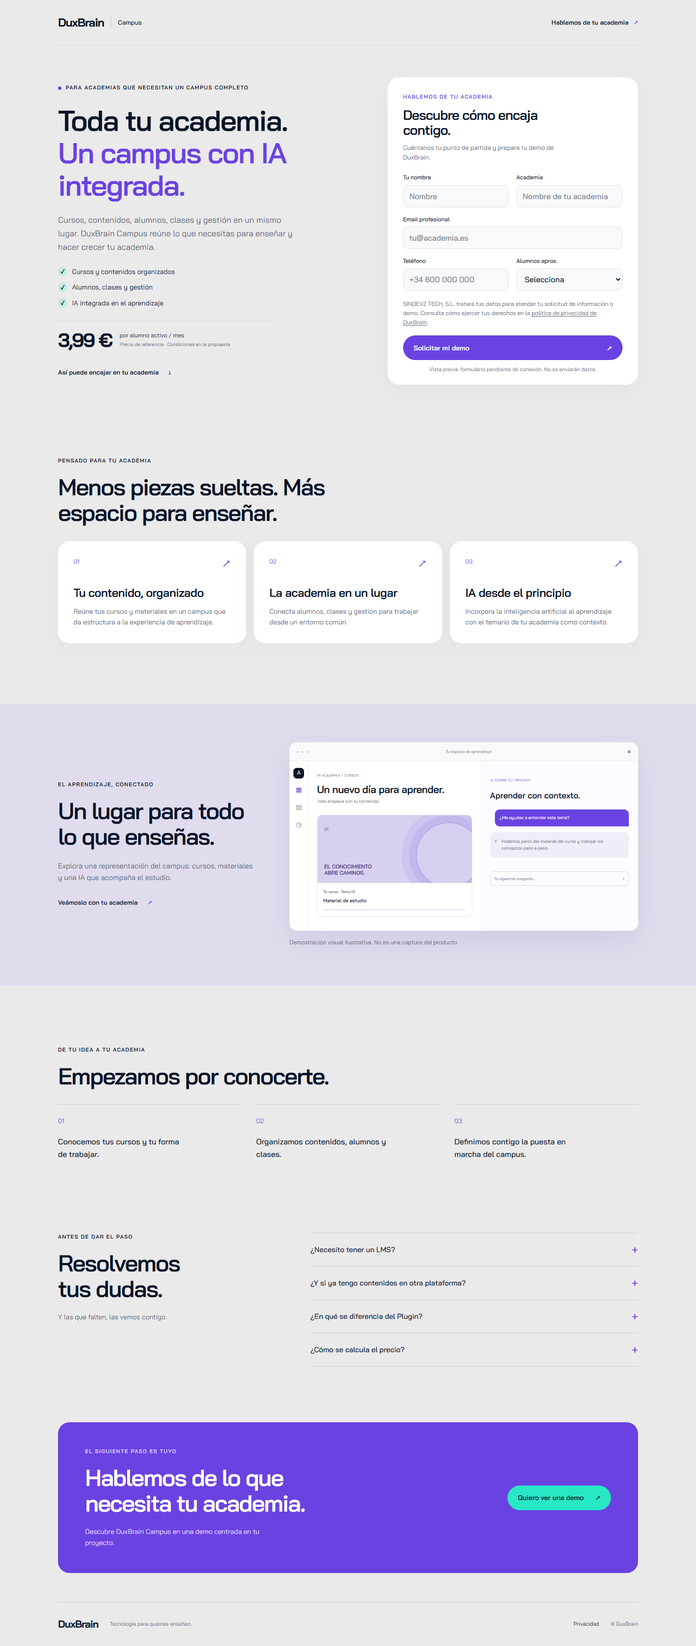
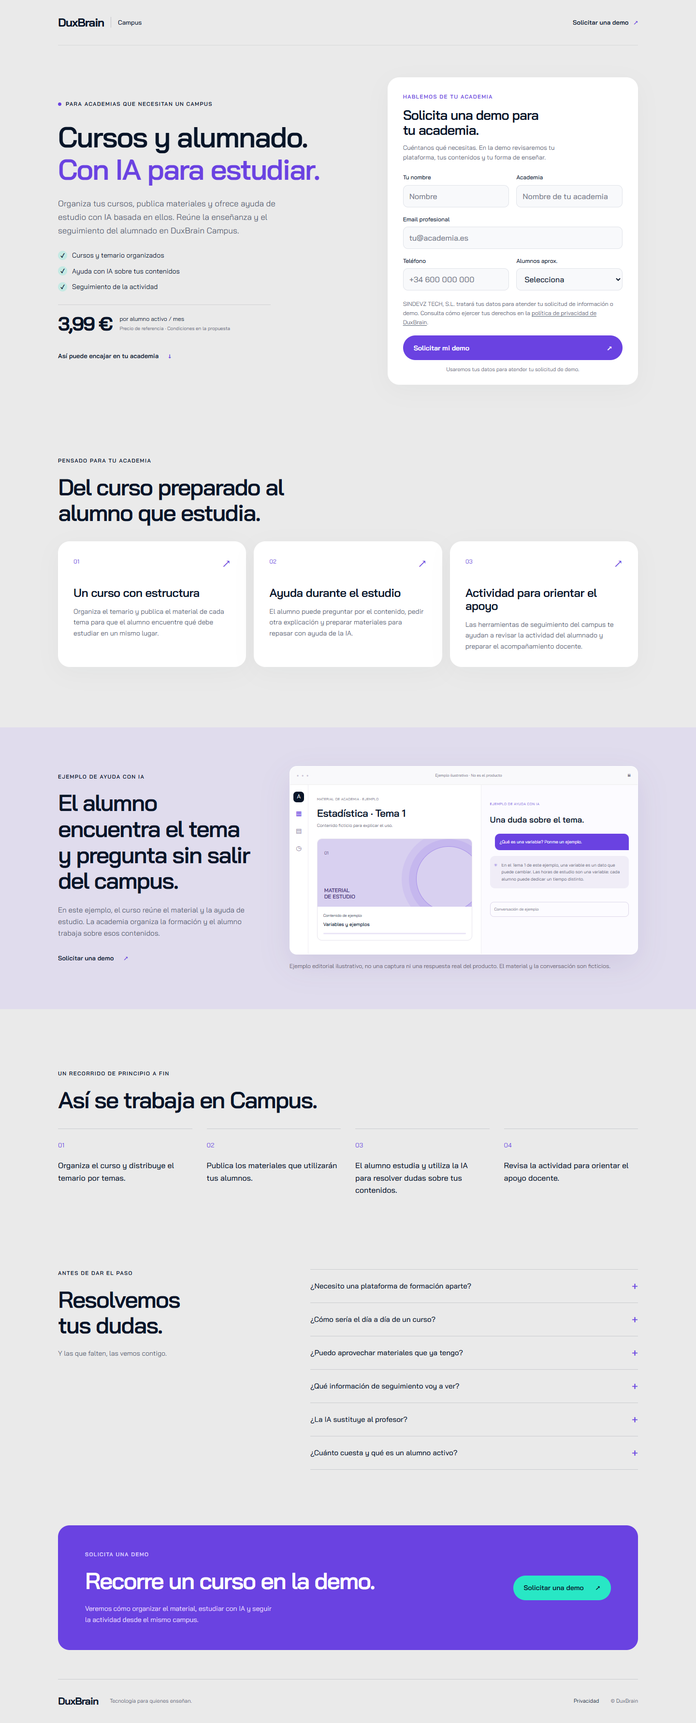
feat: clarify landing copy for academy demo campaigns

diff --git a/src/content/landings.ts b/src/content/landings.ts
@@ -3,72 +3,101 @@ export type LandingContent = {
   id: LandingId; name: string; eyebrow: string; title: string; accent: string;
   description: string; price: string; points: string[];
   benefitsTitle: string; benefits: { title: string; text: string }[];
-  demoTitle: string; demoText: string; steps: string[];
+  demoTitle: string; demoText: string;
+  demo: { courseTitle: string; material: string; panelLabel: string; panelTitle: string; question?: string; answer?: string; reviewTopics?: string[]; caption: string };
+  stepsEyebrow: string; stepsTitle: string; steps: string[];
+  finalTitle: string; finalText: string;
   faqs: { question: string; answer: string }[];
   meta: { title: string; description: string };
 };
 
-const priceFaq = (price: string) => ({ question: "¿Cómo se calcula el precio?", answer: `El precio de referencia es ${price} por alumno activo al mes. En la demo revisaremos el tamaño de tu academia, qué se considera un alumno activo y las condiciones aplicables antes de preparar una propuesta.` });
+const priceFaq = (price: string) => ({ question: "¿Cuánto cuesta y qué es un alumno activo?", answer: `El precio de referencia es ${price} por alumno activo al mes. Antes de contratar, confirmaremos contigo cómo se cuenta un alumno activo, los impuestos y las condiciones de la propuesta. La demo sirve para revisar el alcance que necesita tu academia.` });
+const aiFaq = { question: "¿La IA sustituye al profesor?", answer: "La IA es una ayuda de estudio basada en los contenidos de tu academia: puede ofrecer otra explicación o ayudar a preparar un repaso. Puede equivocarse, por lo que el material del curso y el criterio del docente siguen siendo la referencia." };
+const studyDemo = {
+  courseTitle: "Estadística · Tema 1", material: "Variables y ejemplos",
+  panelLabel: "EJEMPLO DE AYUDA CON IA", panelTitle: "Una duda sobre el tema.",
+  question: "¿Qué es una variable? Ponme un ejemplo.",
+  answer: "En el Tema 1 de este ejemplo, una variable es un dato que puede cambiar. Las horas de estudio son una variable: cada alumno puede dedicar un tiempo distinto.",
+  caption: "Ejemplo editorial ilustrativo, no una captura ni una respuesta real del producto. El material y la conversación son ficticios.",
+};
+
 export const landings: Record<LandingId, LandingContent> = {
   plugin: {
-    id: "plugin", name: "Plugin", eyebrow: "PARA ACADEMIAS QUE YA TIENEN LMS",
-    title: "Tu plataforma de siempre.", accent: "Ahora, con IA sobre tu temario.",
-    description: "Añade DuxBrain a tu LMS y acerca la inteligencia artificial a tus alumnos, dentro de su entorno de estudio. Sin migrar tu academia.",
-    price: "0,99 €", points: ["Tu contenido como punto de partida", "Integrado en tu plataforma", "Sin cambiar de campus"],
-    benefitsTitle: "Tu academia ya funciona. Dale el siguiente impulso.",
+    id: "plugin", name: "Plugin", eyebrow: "PARA ACADEMIAS QUE YA TIENEN PLATAFORMA",
+    title: "IA sobre tu temario.", accent: "En tu campus actual.",
+    description: "Añade ayuda de estudio basada en tus contenidos al campus que ya usas. Tus alumnos pueden preguntar y pedir otra explicación del tema. Revisamos antes la integración.",
+    price: "0,99 €", points: ["Dudas sobre tus materiales", "Explicaciones y ayuda para repasar", "Sin cambiar de campus"],
+    benefitsTitle: "Ayuda cuando un alumno se atasca.",
     benefits: [
-      { title: "IA con tu contexto", text: "Acerca al alumno una IA centrada en el temario de tu academia y en lo que está estudiando." },
-      { title: "Dentro de su LMS", text: "La experiencia de aprendizaje continúa en la plataforma que tu equipo y tus alumnos ya conocen." },
-      { title: "Sin empezar de cero", text: "Conserva tu campus. Revisamos contigo la integración para incorporar DuxBrain a tu entorno actual." },
+      { title: "Resolver una duda", text: "Mientras estudia un tema, el alumno puede preguntar por un concepto y recibir una explicación basada en el contenido de la academia." },
+      { title: "Entenderlo de otra forma", text: "Si una explicación no le resulta clara, puede pedir una alternativa o un ejemplo para trabajar la misma idea." },
+      { title: "Preparar el repaso", text: "La IA puede ayudar a preparar materiales de estudio a partir del temario. El alumno mantiene el contenido del curso como referencia." },
     ],
-    demoTitle: "El temario en el centro de la conversación.", demoText: "Una forma de visualizar cómo conviven tus contenidos y la IA en el mismo entorno de estudio.",
-    steps: ["Revisamos tu LMS y sus posibilidades de integración.", "Definimos el temario que utilizará la IA.", "Preparamos contigo la incorporación a tu academia."],
+    demoTitle: "Del material de tu academia a una explicación concreta.",
+    demoText: "Imagina a un alumno leyendo el tema de variables. Pregunta por el concepto y recibe una explicación que parte de ese material, dentro de su entorno de estudio.",
+    demo: studyDemo,
+    stepsEyebrow: "ANTES DE INTEGRAR TU PLATAFORMA", stepsTitle: "Comprobamos cómo encaja en tu campus.",
+    steps: ["Revisamos tu plataforma, su versión, cómo acceden los alumnos y qué opciones de integración ofrece.", "Comprobamos el formato de tus materiales y qué contenido quieres utilizar con la IA.", "Acordamos el alcance técnico y la puesta en marcha antes de contratar."],
+    finalTitle: "Veamos la IA en tu campus.", finalText: "Cuéntanos qué plataforma utilizas y qué temario quieres incorporar. Revisaremos tu caso en la demo.",
     faqs: [
-      { question: "¿Tengo que cambiar de plataforma?", answer: "No. DuxBrain Plugin está pensado para academias que quieren mantener su LMS e incorporar IA sobre su temario." },
-      { question: "¿Es compatible con mi LMS?", answer: "Revisaremos tu plataforma y los requisitos técnicos en la demo. La compatibilidad y el alcance de la integración se confirman antes de contratar." },
-      { question: "¿Qué contenidos utilizará la IA?", answer: "El temario que tu academia decida incorporar. Revisaremos su formato y organización contigo para definir la configuración." }, priceFaq("0,99 €"),
+      { question: "¿Tengo que trasladar mis cursos a otro campus?", answer: "Plugin está pensado para añadir IA a tu plataforma actual, conservando tu campus y tu temario. Primero hay que confirmar que la integración es viable en tu entorno; no prometemos compatibilidad con cualquier plataforma." },
+      { question: "¿Qué hay que comprobar si uso Moodle u otro LMS?", answer: "Moodle es una referencia conocida, pero el nombre de la plataforma no basta para confirmar compatibilidad. Revisaremos versión, configuración, forma de acceso de los alumnos, permisos técnicos y disponibilidad de los contenidos. La propuesta concretará qué se integra y cómo." },
+      { question: "¿La ayuda se basa en mi temario o en contenido genérico?", answer: "El punto de partida son los materiales de tu academia que se incorporen a DuxBrain. Antes de integrar, revisaremos sus formatos y organización. En la demo puedes plantear una duda de un tema para ver el tipo de ayuda de estudio." },
+      aiFaq, priceFaq("0,99 €"),
     ],
-    meta: { title: "IA para tu LMS, sin migraciones | DuxBrain Plugin", description: "Integra IA sobre tu temario en el LMS de tu academia. DuxBrain Plugin: precio de referencia de 0,99 € por alumno activo al mes. Solicita una demo." },
+    meta: { title: "IA sobre tu temario en tu campus | DuxBrain Plugin", description: "Ayuda a tus alumnos a resolver dudas con IA basada en tus contenidos, sin cambiar de campus. Plugin: 0,99 € por alumno activo al mes. Solicita una demo." },
   },
   campus: {
-    id: "campus", name: "Campus", eyebrow: "PARA ACADEMIAS QUE NECESITAN UN CAMPUS COMPLETO",
-    title: "Toda tu academia.", accent: "Un campus con IA integrada.",
-    description: "Cursos, contenidos, alumnos, clases y gestión en un mismo lugar. DuxBrain Campus reúne lo que necesitas para enseñar y hacer crecer tu academia.",
-    price: "3,99 €", points: ["Cursos y contenidos organizados", "Alumnos, clases y gestión", "IA integrada en el aprendizaje"],
-    benefitsTitle: "Menos piezas sueltas. Más espacio para enseñar.",
+    id: "campus", name: "Campus", eyebrow: "PARA ACADEMIAS QUE NECESITAN UN CAMPUS",
+    title: "Cursos y alumnado.", accent: "Con IA para estudiar.",
+    description: "Organiza tus cursos, publica materiales y ofrece ayuda de estudio con IA basada en ellos. Reúne la enseñanza y el seguimiento del alumnado en DuxBrain Campus.",
+    price: "3,99 €", points: ["Cursos y temario organizados", "Ayuda con IA sobre tus contenidos", "Seguimiento de la actividad"],
+    benefitsTitle: "Del curso preparado al alumno que estudia.",
     benefits: [
-      { title: "Tu contenido, organizado", text: "Reúne tus cursos y materiales en un campus que da estructura a la experiencia de aprendizaje." },
-      { title: "La academia en un lugar", text: "Conecta alumnos, clases y gestión para trabajar desde un entorno común." },
-      { title: "IA desde el principio", text: "Incorpora la inteligencia artificial al aprendizaje con el temario de tu academia como contexto." },
+      { title: "Un curso con estructura", text: "Organiza el temario y publica el material de cada tema para que el alumno encuentre qué debe estudiar en un mismo lugar." },
+      { title: "Ayuda durante el estudio", text: "El alumno puede preguntar por el contenido, pedir otra explicación y preparar materiales para repasar con ayuda de la IA." },
+      { title: "Actividad para orientar el apoyo", text: "Las herramientas de seguimiento del campus te ayudan a revisar la actividad del alumnado y preparar el acompañamiento docente." },
     ],
-    demoTitle: "Un lugar para todo lo que enseñas.", demoText: "Explora una representación del campus: cursos, materiales y una IA que acompaña el estudio.",
-    steps: ["Conocemos tus cursos y tu forma de trabajar.", "Organizamos contenidos, alumnos y clases.", "Definimos contigo la puesta en marcha del campus."],
+    demoTitle: "El alumno encuentra el tema y pregunta sin salir del campus.",
+    demoText: "En este ejemplo, el curso reúne el material y la ayuda de estudio. La academia organiza la formación y el alumno trabaja sobre esos contenidos.",
+    demo: studyDemo,
+    stepsEyebrow: "UN RECORRIDO DE PRINCIPIO A FIN", stepsTitle: "Así se trabaja en Campus.",
+    steps: ["Organiza el curso y distribuye el temario por temas.", "Publica los materiales que utilizarán tus alumnos.", "El alumno estudia y utiliza la IA para resolver dudas sobre tus contenidos.", "Revisa la actividad para orientar el apoyo docente."],
+    finalTitle: "Recorre un curso en la demo.", finalText: "Veremos cómo organizar el material, estudiar con IA y seguir la actividad desde el mismo campus.",
     faqs: [
-      { question: "¿Necesito tener un LMS?", answer: "No. Campus es la solución completa para academias que necesitan su propio entorno para cursos, contenidos, alumnos, clases, gestión e IA." },
-      { question: "¿Y si ya tengo contenidos en otra plataforma?", answer: "Revisaremos los formatos y el volumen de tus materiales para definir el proceso de incorporación y su alcance." },
-      { question: "¿En qué se diferencia del Plugin?", answer: "Plugin añade IA a un LMS que ya tienes. Campus reúne el entorno de formación completo y la IA integrada." }, priceFaq("3,99 €"),
+      { question: "¿Necesito una plataforma de formación aparte?", answer: "Campus reúne cursos, contenidos, alumnado, herramientas de seguimiento y ayuda con IA. Si ya tienes una plataforma que quieres conservar y solo buscas añadir IA, revisa la opción Plugin." },
+      { question: "¿Cómo sería el día a día de un curso?", answer: "La academia organiza el curso y publica el material. El alumno accede al tema y puede apoyarse en la IA al estudiar. Después, el equipo docente revisa la actividad mediante las herramientas de seguimiento del campus." },
+      { question: "¿Puedo aprovechar materiales que ya tengo?", answer: "Revisaremos los formatos, la organización y el volumen del contenido para definir su incorporación. No damos por incluida una migración automática ni un plazo de puesta en marcha sin estudiar tu caso." },
+      { question: "¿Qué información de seguimiento voy a ver?", answer: "El campus dispone de herramientas de seguimiento de actividad. En la demo revisaremos las vistas disponibles y qué información aporta cada una para tu forma de enseñar; no prometemos métricas o informes concretos sin confirmarlos." },
+      aiFaq, priceFaq("3,99 €"),
     ],
-    meta: { title: "El campus completo para tu academia | DuxBrain Campus", description: "Cursos, contenidos, alumnos, clases, gestión e IA integrada. Descubre DuxBrain Campus desde un precio de referencia de 3,99 € por alumno activo al mes." },
+    meta: { title: "Cursos, alumnos e IA en un campus | DuxBrain Campus", description: "Organiza cursos, publica materiales, ofrece ayuda con IA y sigue la actividad del alumnado. Campus: 3,99 € por alumno activo al mes. Solicita una demo." },
   },
   "campus-secure": {
-    id: "campus-secure", name: "Campus · Seguridad", eyebrow: "DUXBRAIN CAMPUS · FOCO EN SEGURIDAD",
-    title: "Tu contenido tiene valor.", accent: "Ten más control sobre su acceso.",
-    description: "Tu campus completo, con el foco en controlar accesos, sesiones y reproducción de contenidos. Enseña con IA integrada y define cómo se utiliza tu formación.",
-    price: "3,99 €", points: ["Control de accesos", "Gestión de sesiones", "Control de reproducción"],
-    benefitsTitle: "Control donde importa. En tu día a día.",
+    id: "campus-secure", name: "Campus · Seguridad", eyebrow: "DUXBRAIN CAMPUS · ACCESOS Y CONTENIDOS",
+    title: "¿Se comparten accesos a tu curso?", accent: "Revisa qué puedes controlar.",
+    description: "Si tu formación de pago circula fuera de la academia, empieza por revisar los accesos y el uso del contenido. En la demo de Campus concretamos las opciones y sus límites.",
+    price: "3,99 €", points: ["Revisión de tu caso de acceso", "Alcance técnico antes de contratar", "El mismo Campus con IA"],
+    benefitsTitle: "Parte del problema que vive tu academia.",
     benefits: [
-      { title: "Accesos bajo control", text: "Define quién accede a tu formación y revisa con nosotros la configuración que necesita tu academia." },
-      { title: "Atención a las sesiones", text: "Pon el foco en el uso de las sesiones y en las condiciones de acceso de tus alumnos." },
-      { title: "Reproducción de contenidos", text: "Revisa las opciones de control de reproducción y su alcance antes de poner tu campus en marcha." },
+      { title: "Accesos compartidos", text: "Cuéntanos quién debería acceder a cada curso y cómo se comparte hoy el acceso. Es el punto de partida para revisar qué opciones encajan en tu caso." },
+      { title: "Material fuera de la academia", text: "Identifica qué contenido de pago te preocupa y cómo se distribuye. En la demo distinguiremos lo que se puede controlar de lo que requiere otras medidas." },
+      { title: "La enseñanza sigue en Campus", text: "Esta página presenta el mismo campus de cursos, contenidos, alumnado, seguimiento e IA. El enfoque de seguridad no añade otra tarifa." },
     ],
-    demoTitle: "La formación y su acceso, en el mismo entorno.", demoText: "Una representación para explicar los puntos de control que revisaremos en la demo de Campus.",
-    steps: ["Entendemos cómo se accede hoy a tus contenidos.", "Revisamos los controles y su alcance técnico.", "Definimos la configuración de tu Campus."],
+    demoTitle: "Tres preguntas para revisar tu caso.",
+    demoText: "La demo debe servir para contrastar tus necesidades con las opciones reales del campus, antes de decidir. Este esquema es un guion de conversación, no un panel de controles incluidos.",
+    demo: { courseTitle: "Tu formación de pago", material: "Contenido que quieres revisar", panelLabel: "GUION DE LA DEMO", panelTitle: "Necesidades por revisar", reviewTopics: ["¿Quién debe acceder?", "¿Qué material te preocupa?", "¿Qué necesitas limitar?"], caption: "Esquema ilustrativo de la revisión, no una captura del producto. No representa controles incluidos ni garantías de protección." },
+    stepsEyebrow: "ANTES DE DECIDIR", stepsTitle: "Concreta el alcance antes de contratar.",
+    steps: ["Describe cómo se comparten los accesos o se distribuye tu contenido hoy.", "Contrastamos tus necesidades con las opciones disponibles y sus límites técnicos.", "La propuesta deja por escrito qué alcance se confirma para tu Campus."],
+    finalTitle: "Trae tu caso de acceso a la demo.", finalText: "Revisa qué puede aportar Campus a tu academia y qué necesidades requieren una confirmación técnica.",
     faqs: [
-      { question: "¿Campus Secure es una tarifa diferente?", answer: "No. Es DuxBrain Campus presentado desde el enfoque de seguridad. El precio de referencia sigue siendo 3,99 € por alumno activo al mes." },
-      { question: "¿Se puede garantizar que nadie grabe mis contenidos?", answer: "No. Ningún entorno puede garantizar que sea imposible grabar o copiar contenido. Los controles ayudan a gestionar el acceso y el uso; su alcance y limitaciones se revisan en la demo." },
-      { question: "¿Qué controles incluye para mi academia?", answer: "Revisaremos accesos, sesiones y reproducción contigo. La configuración concreta, los requisitos técnicos y el alcance se confirman en la propuesta." },
-      { question: "¿También incluye el campus y la IA?", answer: "Sí. Es el mismo Campus: cursos, contenidos, alumnos, clases, gestión e IA integrada, con el foco de esta presentación en la seguridad." }, priceFaq("3,99 €"),
+      { question: "¿Campus Secure es otro producto o una tarifa adicional?", answer: "No. Es el mismo DuxBrain Campus presentado desde el problema de los accesos compartidos y la distribución de contenidos. El precio de referencia sigue siendo 3,99 € por alumno activo al mes." },
+      { question: "¿Qué controles están incluidos por 3,99 €?", answer: "El precio corresponde a Campus. El alcance concreto de las restricciones de acceso o uso debe verificarse en la demo y quedar reflejado en la propuesta. Esta página no da por incluidos controles de sesiones o reproducción que no se hayan confirmado para esa oferta." },
+      { question: "¿Evita que un alumno comparta su cuenta?", answer: "No prometemos impedir todos los usos compartidos. Revisaremos cómo acceden tus alumnos y qué opciones reales pueden atender tu caso, con sus límites y requisitos, antes de contratar." },
+      { question: "¿Se puede impedir cualquier grabación o copia?", answer: "No. No se garantiza que sea imposible grabar o copiar un contenido. La demo debe ayudarte a entender el alcance real de las opciones disponibles, sin confundir control de acceso con protección absoluta." },
+      { question: "¿Sigo teniendo cursos e IA educativa?", answer: "Sí. Sigue siendo Campus: cursos, contenidos, alumnado, herramientas de seguimiento y ayuda de estudio con IA basada en los materiales de la academia." },
+      priceFaq("3,99 €"),
     ],
-    meta: { title: "Control de accesos y contenidos | DuxBrain Campus", description: "Descubre DuxBrain Campus con foco en accesos, sesiones y reproducción de contenidos. Mismo Campus, precio de referencia de 3,99 € por alumno activo al mes." },
+    meta: { title: "Accesos compartidos y contenido de pago | DuxBrain Campus", description: "¿Se comparten accesos o materiales de tu academia? Revisa las opciones y límites de Campus en una demo. Mismo Campus: 3,99 € por alumno activo al mes." },
   },
 };

diff --git a/src/components/landing.tsx b/src/components/landing.tsx
@@ -6,7 +6,7 @@ import { LeadForm } from "./lead-form";
 export function Header({ name }: { name: string }) {
   return <header className="site-header container">
     <Link href="/" className="brand-text" aria-label="DuxBrain, inicio">DuxBrain<span className="brand-divider" /> <span className="product-name">{name}</span></Link>
-    <a className="header-link" href="#demo"><span className="header-label-desktop">Hablemos de tu academia</span><span className="header-label-mobile">Demo</span><span className="header-arrow" aria-hidden="true">↗</span></a>
+    <a className="header-link" href="#demo" aria-label="Solicitar una demo"><span className="header-label-desktop">Solicitar una demo</span><span className="header-label-mobile">Demo</span><span className="header-arrow" aria-hidden="true">↗</span></a>
   </header>;
 }
 
@@ -18,7 +18,7 @@ export function Hero({ content: c }: { content: LandingContent }) {
       <ul className="hero-points">{c.points.map(p => <li key={p}><span aria-hidden="true">✓</span>{p}</li>)}</ul>
       <div className="price"><strong>{c.price}</strong><span>por alumno activo / mes<small>Precio de referencia · Condiciones en la propuesta</small></span></div>
       {c.id === "campus-secure" && <p className="product-clarification">El mismo DuxBrain Campus. Mismo precio, con el foco en seguridad.</p>}
-      <a className="button button-primary mobile-hero-cta" href="#demo">Quiero ver una demo <span aria-hidden="true">↗</span></a>
+      <a className="button button-primary mobile-hero-cta" href="#demo">Solicitar una demo <span aria-hidden="true">↗</span></a>
       <a className="text-link" href="#en-accion">Así puede encajar en tu academia <span aria-hidden="true">↓</span></a>
     </div>
     <LeadForm landing={c.id} />
@@ -32,27 +32,26 @@ export function Benefits({ content: c }: { content: LandingContent }) {
 }
 
 export function VisualDemo({ content: c }: { content: LandingContent }) {
-  const secure = c.id === "campus-secure";
-  return <section className="demo-section" id="en-accion"><div className="container demo-layout"><div className="demo-copy"><span className="eyebrow">EL APRENDIZAJE, CONECTADO</span><h2>{c.demoTitle}</h2><p>{c.demoText}</p><a className="text-link" href="#demo">Veámoslo con tu academia <span aria-hidden="true">↗</span></a></div>
-    <figure className="demo-figure"><div className="product-window"><div className="window-top"><span className="window-dots" aria-hidden="true">● ● ●</span><span>Tu espacio de aprendizaje</span><span aria-hidden="true">▦</span></div>
+  return <section className="demo-section" id="en-accion"><div className="container demo-layout"><div className="demo-copy"><span className="eyebrow">{c.demo.panelLabel}</span><h2>{c.demoTitle}</h2><p>{c.demoText}</p><a className="text-link" href="#demo">Solicitar una demo <span aria-hidden="true">↗</span></a></div>
+    <figure className="demo-figure"><div className="product-window"><div className="window-top"><span className="window-dots" aria-hidden="true">● ● ●</span><span>Ejemplo ilustrativo · No es el producto</span><span aria-hidden="true">▦</span></div>
       <div className="product-body"><aside className="mock-sidebar" aria-hidden="true"><span className="mock-square">A</span><span className="mock-nav active">▦</span><span className="mock-nav">▤</span><span className="mock-nav">◷</span></aside>
-      <div className="mock-main"><div className="mock-kicker">MI ACADEMIA / CURSOS</div><h3>Un nuevo día para aprender.</h3><p className="mock-subtitle">Todo empieza con tu contenido.</p>
-      <div className="course-preview"><div className="course-art" aria-hidden="true"><span>01</span><div className="orbit" /><span className="art-caption">EL CONOCIMIENTO<br />ABRE CAMINOS.</span></div><div className="course-bottom"><span>Tu curso · Tema 01</span><strong>Material de estudio</strong><span className="course-line" /></div></div>
-      </div><div className="mock-panel"><span className="panel-tag">{secure ? "CONTROL DEL CAMPUS" : "IA SOBRE TU TEMARIO"}</span><h4>{secure ? "Tu contenido. Tus accesos." : "Aprender con contexto."}</h4>{secure ? <div className="control-list">{["Accesos", "Sesiones", "Reproducción"].map(x => <div key={x}><span>{x}</span><span aria-hidden="true">◉</span></div>)}</div> : <><div className="chat-question">¿Me ayudas a entender este tema?</div><div className="chat-answer"><span className="ai-mark" aria-hidden="true">✳</span><p>Podemos partir del material del curso y trabajar los conceptos paso a paso.</p></div><div className="mock-input">Tu siguiente pregunta… <span aria-hidden="true">↑</span></div></>}
-      </div></div></div><figcaption>Demostración visual ilustrativa. No es una captura del producto. {secure && "El alcance de los controles se confirma en la demo."}</figcaption></figure>
+      <div className="mock-main"><div className="mock-kicker">MATERIAL DE ACADEMIA · EJEMPLO</div><h3>{c.demo.courseTitle}</h3><p className="mock-subtitle">{c.demo.reviewTopics ? "Punto de partida para la demo." : "Contenido ficticio para explicar el uso."}</p>
+      <div className="course-preview"><div className="course-art" aria-hidden="true"><span>01</span><div className="orbit" /><span className="art-caption">MATERIAL<br />DE ESTUDIO</span></div><div className="course-bottom"><span>Contenido de ejemplo</span><strong>{c.demo.material}</strong><span className="course-line" /></div></div>
+      </div><div className="mock-panel"><span className="panel-tag">{c.demo.panelLabel}</span><h4>{c.demo.panelTitle}</h4>{c.demo.reviewTopics ? <div className="control-list">{c.demo.reviewTopics.map(x => <div key={x}>{x}</div>)}</div> : <><div className="chat-question">{c.demo.question}</div><div className="chat-answer"><span className="ai-mark" aria-hidden="true">✳</span><p>{c.demo.answer}</p></div><div className="mock-input">Conversación de ejemplo</div></>}
+      </div></div></div><figcaption>{c.demo.caption}</figcaption></figure>
   </div></section>;
 }
 
 export function Steps({ content: c }: { content: LandingContent }) {
-  return <section className="section container steps-section"><div className="section-heading"><span className="eyebrow">DE TU IDEA A TU ACADEMIA</span><h2>Empezamos por conocerte.</h2></div><ol className="steps">{c.steps.map((s, i) => <li key={s}><span>0{i + 1}</span><p>{s}</p></li>)}</ol></section>;
+  return <section className="section container steps-section"><div className="section-heading"><span className="eyebrow">{c.stepsEyebrow}</span><h2>{c.stepsTitle}</h2></div><ol className={`steps ${c.steps.length === 4 ? "steps-four" : ""}`}>{c.steps.map((s, i) => <li key={s}><span>0{i + 1}</span><p>{s}</p></li>)}</ol></section>;
 }
 
 export function FAQ({ content: c }: { content: LandingContent }) {
   return <section className="section container faq-section"><div><span className="eyebrow">ANTES DE DAR EL PASO</span><h2>Resolvemos<br />tus dudas.</h2><p>Y las que falten, las vemos contigo.</p></div><div className="faq-list">{c.faqs.map(f => <details key={f.question}><summary>{f.question}<span aria-hidden="true">+</span></summary><p>{f.answer}</p></details>)}</div></section>;
 }
 
-export function FinalCTA({ name }: { name: string }) {
-  return <section className="container final-wrap"><div className="final-cta"><div><span className="eyebrow">EL SIGUIENTE PASO ES TUYO</span><h2>Hablemos de lo que<br />necesita tu academia.</h2><p>Descubre DuxBrain {name} en una demo centrada en tu proyecto.</p></div><a className="button button-mint" href="#demo">Quiero ver una demo <span aria-hidden="true">↗</span></a></div></section>;
+export function FinalCTA({ content: c }: { content: LandingContent }) {
+  return <section className="container final-wrap"><div className="final-cta"><div><span className="eyebrow">SOLICITA UNA DEMO</span><h2>{c.finalTitle}</h2><p>{c.finalText}</p></div><a className="button button-mint" href="#demo">Solicitar una demo <span aria-hidden="true">↗</span></a></div></section>;
 }
 
 export function Footer() {
@@ -60,5 +59,5 @@ export function Footer() {
 }
 
 export function Landing({ content }: { content: LandingContent }) {
-  return <><a className="skip-link" href="#contenido">Saltar al contenido</a><Header name={content.name} /><main id="contenido"><Hero content={content} /><Benefits content={content} /><VisualDemo content={content} /><Steps content={content} /><FAQ content={content} /><FinalCTA name={content.id === "campus-secure" ? "Campus" : content.name} /></main><Footer /></>;
+  return <><a className="skip-link" href="#contenido">Saltar al contenido</a><Header name={content.name} /><main id="contenido"><Hero content={content} /><Benefits content={content} /><VisualDemo content={content} /><Steps content={content} /><FAQ content={content} /><FinalCTA content={content} /></main><Footer /></>;
 }

diff --git a/src/components/lead-form.tsx b/src/components/lead-form.tsx
@@ -46,8 +46,8 @@ export function LeadForm({ landing }: { landing: LandingId }) {
   }
   return <div className="lead-card" id="demo">
     <span className="eyebrow">HABLEMOS DE TU ACADEMIA</span>
-    <h2>Descubre cómo encaja contigo.</h2>
-    <p className="form-intro">Cuéntanos tu punto de partida y prepara tu demo de DuxBrain.</p>
+    <h2>Solicita una demo para tu academia.</h2>
+    <p className="form-intro">Cuéntanos qué necesitas. En la demo revisaremos tu plataforma, tus contenidos y tu forma de enseñar.</p>
     <form onSubmit={handleSubmit} aria-busy={sending}>
       <fieldset disabled={sending || finished || uncertain}>
       <div className="honeypot" aria-hidden="true"><label>Deja este campo vacío<input name="website" autoComplete="off" tabIndex={-1} maxLength={200} /></label></div>

diff --git a/src/app/globals.css b/src/app/globals.css
@@ -180,6 +180,7 @@ details p { font-size: 14px; line-height: 1.75; padding-top: 16px; padding-right
   .lead-card { padding: 32px 32px 22px; }
   .mobile-hero-cta { display: none; }
   .section { padding-block: 75px; }
+  .steps-four { grid-template-columns: repeat(4, minmax(0, 1fr)); }
   .benefit-card { padding: 32px; }
   .benefit-card h3 { font-size: 24px; }
   .demo-section { padding-block: 80px; }

diff --git a/docs/revision-contenido.md b/docs/revision-contenido.md
@@ -1,0 +1,52 @@
+# Revisión de contenido para campañas Meta
+
+Base: master en `ad03d33`. Rama: feature/landing-copy. Se leyeron los textos, metadatos de las tres rutas y las seis capturas de docs/capturas/ antes de editar. Las capturas iniciales mostraban propuestas genéricas, un mismo ejemplo poco concreto en Plugin/Campus y un panel de Secure que podía interpretarse como controles disponibles.
+
+## Evidencia y límites
+
+- **Confirmado para esta redacción por el propietario:** IA educativa basada en contenidos de la academia; ayuda con dudas, explicaciones alternativas y materiales de estudio. Campus reúne cursos, contenidos, alumnado y seguimiento. Plugin añade IA a la plataforma existente, sujeto a comprobar integración. Moodle es una referencia, no garantía universal de compatibilidad.
+- **Precios autorizados:** Plugin 0,99 € y Campus 3,99 € por alumno activo al mes. Secure presenta el mismo Campus y precio. No se utilizó una propuesta antigua de cuatro planes ni otros precios.
+- **Sin evidencia técnica adicional:** el repositorio contiene las landings y la captura de leads, no el código del Campus. La consulta de solo lectura al conector DuxBrain EBAU Demo no obtuvo datos tras dos respuestas de autenticación; no se consultaron alumnos ni se modificó la academia. Las descripciones de herramientas no demuestran que un control esté incluido en el Campus de 3,99 €.
+- Los mockups son ilustraciones editoriales, nunca capturas ni conversaciones reales del producto. No se añaden clientes, testimonios, métricas o resultados inventados.
+
+## Matriz de decisiones
+
+| Afirmación actual | Evidencia disponible | Decisión | Texto nuevo / tratamiento |
+| --- | --- | --- | --- |
+| Plugin: «Tu plataforma de siempre. Ahora, con IA sobre tu temario.» | Plataforma existente + IA basada en sus contenidos, según propietario. | Hacer explícito el uso y el público. | «IA sobre tu temario. En tu campus actual.»; dudas, otra explicación y repaso. |
+| Plugin: «Dale el siguiente impulso.» / «Dentro de su LMS» / «Sin empezar de cero» | Mensajes sin ejemplo; dos beneficios repetían conservar el entorno. | Reemplazar por tres usos distintos. | Resolver una duda, entenderla de otra forma y preparar el repaso. |
+| Ejemplo: «¿Me ayudas a entender este tema?» con respuesta genérica | Capacidad de explicar basada en material confirmada; no hay conversación real disponible. | Mostrar un caso editorial concreto y etiquetado. | Alumno pregunta qué es una variable; respuesta toma el Tema 1 ficticio y usa horas de estudio como ejemplo. Sin simular citas o trazabilidad técnica no confirmadas. |
+| FAQ Plugin: «¿Es compatible con mi LMS?» sin comprobaciones concretas | Moodle es referencia; no se confirma compatibilidad con cualquier LMS. | **REQUIERE CONFIRMACIÓN por integración.** Añadir comprobaciones, no una promesa. | Versión/configuración, acceso de alumnos, permisos y disponibilidad/formato de materiales antes de contratar. |
+| Campus: «Toda tu academia» / «hacer crecer tu academia» | Cursos, contenidos, alumnado y seguimiento confirmados; no hay evidencia de crecimiento comercial. | Quitar amplitud y resultados difíciles de demostrar. | «Cursos y alumnado. Con IA para estudiar.»; el subtítulo reúne enseñanza y seguimiento en Campus. |
+| Campus: «Alumnos, clases y gestión» como lista de funciones | El contexto actual confirma enseñanza y seguimiento; no concreta todo el catálogo administrativo. | Priorizar el recorrido comprensible para dirección. | Organizar curso → publicar material → estudiar con IA → seguir actividad. |
+| FAQ Campus: «¿Qué información de seguimiento voy a ver?» ausente | Herramientas de actividad confirmadas; no informes/indicadores específicos. | **REQUIERE CONFIRMACIÓN de vistas y datos.** | Explicar el uso docente y revisar las vistas reales en demo; no prometer métricas concretas. |
+| Secure: «Control de accesos», «Gestión de sesiones», «Control de reproducción» y símbolos de control activo | No hay confirmación técnica de esos mecanismos dentro de Campus de 3,99 €. | **REQUIERE CONFIRMACIÓN.** Retirar la presentación como prestaciones incluidas y el panel que lo sugería. | «¿Se comparten accesos a tu curso? Revisa qué puedes controlar.»; ilustración como guion de preguntas, sin interruptores ni estados activos. |
+| Secure: «Tu contenido tiene valor» | No explica el problema desde el anuncio. | Abrir con acceso compartido y formación de pago que circula fuera. | Revisar quién debe acceder, qué material preocupa y qué necesita limitar la academia. Son necesidades, no funcionalidades garantizadas. |
+| Secure como posible plan separado | El propietario confirma mismo producto y precio. | Mantener explícito en hero, beneficios y FAQ. | «El mismo DuxBrain Campus. Mismo precio, con el foco en seguridad.» |
+| Restricciones de dispositivos, IP, geografía, DRM, marcas de agua o antifraude | No confirmadas para esta oferta. | **REQUIERE CONFIRMACIÓN de disponibilidad y precio.** No añadirlas a las landings. | Sin promesa de controles específicos ni imposibilidad de copiar/grabar. La propuesta debe fijar el alcance. |
+| IA presentada sin límites en las FAQ | El propietario confirma ayuda de estudio, no infalibilidad ni sustitución docente. | Añadir objeción sobre papel del profesor. | Ayuda basada en contenido que puede equivocarse; material y criterio docente como referencia. |
+| «0,99 €» / «3,99 €» | Precios vigentes autorizados por el propietario. | Conservar precios de referencia y unidad. | **REQUIERE CONFIRMACIÓN:** alumno activo, impuestos y condiciones finales. No añadir mínimos ni planes antiguos. |
+| Cierres y CTA genéricos («Hablemos…», «Quiero ver…») | El objetivo de conversión es solicitar demo. | Coherencia del CTA y cierre propio de cada público. | Solicitar una demo; revisar plataforma (Plugin), recorrer un curso (Campus), traer un caso de acceso (Secure). |
+| Metadatos generales, con promesas amplias de campus completo/control | Mismo contexto confirmado; los metadatos también son contenido comercial. | Títulos y descripciones específicos por ruta. | Temario/campus actual; cursos/alumnos/IA; accesos compartidos/contenido de pago y revisión de límites. |
+
+## Decisiones de implementación
+
+El contenido específico, incluidos ejemplos editoriales, recorrido y cierre, vive en src/content/landings.ts. Los metadatos de cada page.tsx ya consumían ese contenido y reciben los títulos/descripciones nuevos sin duplicarlos.
+
+Se adapta el componente compartido únicamente para mostrar el ejemplo y las preguntas correctos, los cuatro pasos de Campus y los cierres específicos. El formulario solo cambia título y entradilla: no se modifican campos, validación, captura de UTM, identificador, endpoint, estados ni protección contra duplicados. No hay cambios en src/server/, .env.example o el interruptor de escrituras.
+
+## Comprobaciones de esta rama
+
+Lint, las 26 pruebas existentes y build correctos. Se revisan las tres rutas a 1440 × 1000 y 390 × 844 con Chrome de Windows/Playwright tras fallar el navegador integrado por sandboxPolicy. Las seis capturas se regeneran desde el build local, no desde una maqueta. Solicitudes del formulario interceptadas con respuestas simuladas: no se escribe en Sheets ni se envían correos reales.
+
+En la primera revisión se detectó «IA.» aislado al final del titular móvil de Campus y «tema.» aislado en el título de beneficios de Plugin en escritorio. Se acortan ambos titulares para mejorar la lectura. No hay cambios de identidad ni nueva librería.
+
+El script de revisión comprueba HTTP 200, metadatos propios, ausencia de errores JavaScript/desbordamiento horizontal, CTA móvil dentro del primer pantallazo, FAQ y recepción de landing/UTM/anuncio en la solicitud interceptada. El script adicional check-lead-form comprueba éxito simulado, configuración ausente y recepción incierta: bloqueo y datos conservados. Capturas en [docs/capturas](capturas/) y datos en [revision.json](capturas/revision.json). El backend y LEADS_SHEETS_WRITES_ENABLED=false permanecen sin cambios.
+
+## Antes de publicar
+
+- Confirmar compatibilidad y requisitos del LMS concreto, formatos/materiales admitidos y alcance de puesta en marcha.
+- Confirmar vistas/datos de seguimiento y materiales de estudio disponibles en la oferta comercial.
+- Confirmar qué controles reales de acceso/uso se incluyen en Campus de 3,99 € y sus límites; dispositivos, IP, geografía, DRM, marcas de agua y antifraude siguen sin afirmarse.
+- Confirmar definición de alumno activo, impuestos y condiciones de precio. Secure conserva el mismo producto/precio.
+- Sustituir ilustraciones por material real solo si se dispone de él, con autorización; los logos oficiales siguen pendientes.

diff --git a/docs/revision-visual.md b/docs/revision-visual.md
@@ -1,5 +1,7 @@
 # Revisión visual · 3 de noviembre de 2026
 
+Las seis capturas enlazadas se han actualizado en feature/landing-copy con la revisión editorial posterior a ad03d33. La matriz, la evidencia y las comprobaciones actuales están en [revision-contenido.md](revision-contenido.md). El resto de este informe conserva el contexto de la revisión visual inicial; los ejemplos de IA y el guion de Secure son ahora específicos y están identificados como ilustrativos. Las pruebas de formulario actuales interceptan /api/leads, sin llegar al servidor real.
+
 Proyecto existente duxbrain-landings. Sin despliegue. Servidor local de producción en http://localhost:3000.
 
 ## Capturas finales de página completa
